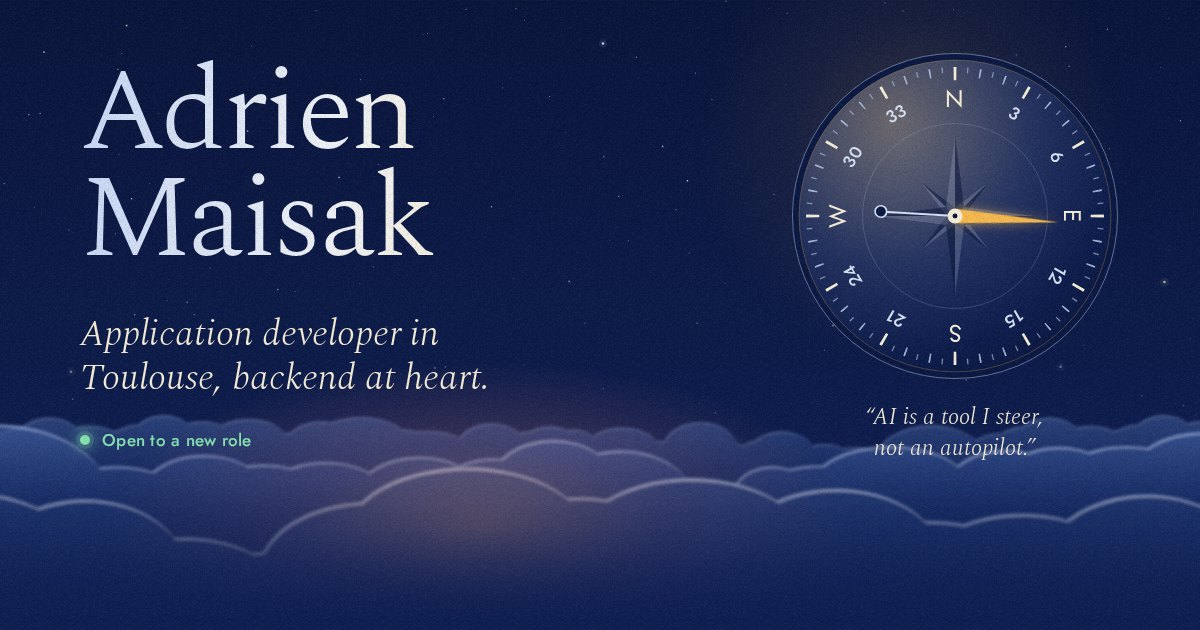
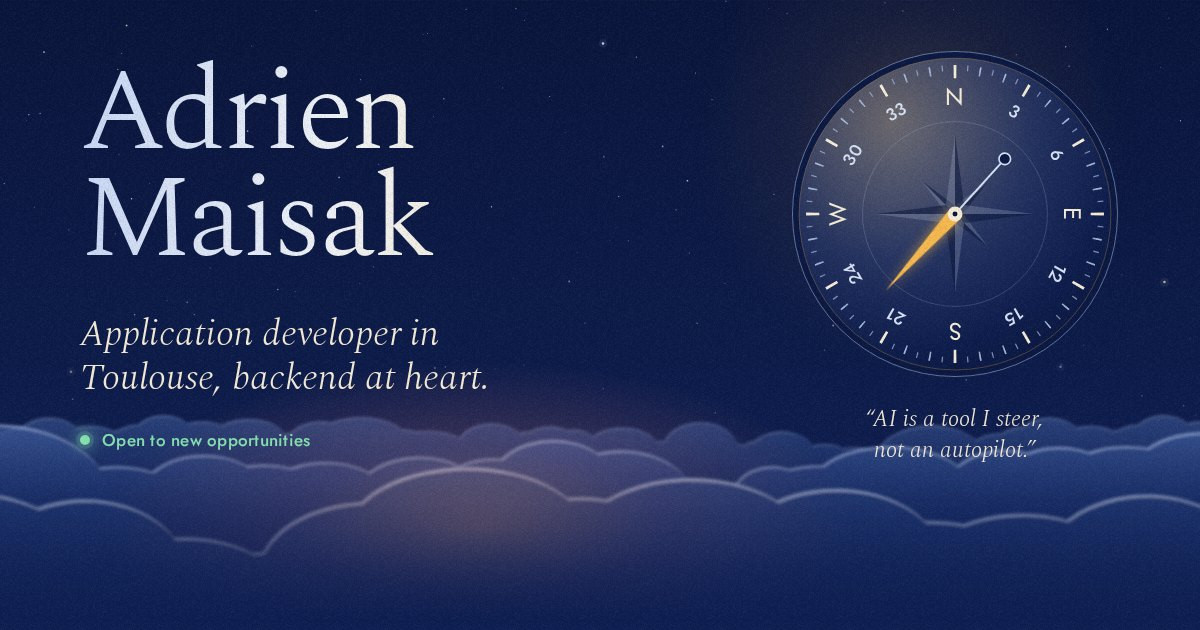
content: adjust wording and drop the compass readout
- Availability reads "Open to new opportunities" / "Ouvert à de
  nouvelles opportunités", in the hero, the meta descriptions and the
  social preview images
- "CV" replaces "résumé" on the EN buttons and nav link
- The training stage becomes "Retraining" / "Reconversion"; shorter
  intros for the route and the training projects
- Remove the heading / next-waypoint line under the compass, with its
  styles and the script that fed it; the quote stands alone
- Remove the typeface colophon from the footer

diff --git a/index.html b/index.html
@@ -5,7 +5,7 @@
   <meta charset="UTF-8">
   <meta name="viewport" content="width=device-width, initial-scale=1">
   <title>Adrien Maisak, application developer in Toulouse</title>
-  <meta name="description" content="Adrien Maisak, application developer in Toulouse, backend at heart. Open to a new role within an experienced team.">
+  <meta name="description" content="Adrien Maisak, application developer in Toulouse, backend at heart. Open to new opportunities.">
   <meta name="keywords" content="application developer, backend, Python, FastAPI, TypeScript, Node.js, Fastify, PostgreSQL, Redis, Next.js, React, AI coding agents, Toulouse">
   <meta name="author" content="Adrien Maisak">
   <meta name="theme-color" content="#0a153b">
@@ -18,7 +18,7 @@
   <meta property="og:url" content="https://dayrisea.github.io/">
   <meta property="og:locale" content="en_US">
   <meta property="og:title" content="Adrien Maisak, application developer in Toulouse">
-  <meta property="og:description" content="Adrien Maisak, application developer in Toulouse, backend at heart. Open to a new role within an experienced team.">
+  <meta property="og:description" content="Adrien Maisak, application developer in Toulouse, backend at heart. Open to new opportunities.">
   <meta property="og:image" content="https://dayrisea.github.io/assets/images/og-en.jpg">
   <meta property="og:image:width" content="1200">
   <meta property="og:image:height" content="630">
@@ -53,7 +53,7 @@
       <a href="#background" class="bar__opt bar__opt--wide">Background</a>
       <a href="#projects">Projects</a>
       <a href="#contact">Contact</a>
-      <a href="assets/cv/CV_AMK_EN.pdf">Résumé</a>
+      <a href="assets/cv/CV_AMK_EN.pdf">CV</a>
     </nav>
     <div class="lang" role="group" aria-label="Language">
       <a href="./" hreflang="en" lang="en" aria-current="page">EN<span class="vh">, English</span></a>
@@ -77,12 +77,12 @@
         <div class="hero__text">
           <h1>Adrien <span>Maisak</span></h1>
           <p class="hero__role">Application developer in Toulouse, backend&nbsp;at&nbsp;heart.</p>
-          <p class="status">Open to a new role</p>
+          <p class="status">Open to new opportunities</p>
           <p class="hero__pitch">A year of full-stack freelancing, after seven years in product data and IT. I work hand in hand with AI coding agents, and I keep the&nbsp;controls.</p>
           <div class="actions">
             <a class="btn btn--lamp" href="assets/cv/CV_AMK_EN.pdf" download>
               <svg viewBox="0 0 16 16" aria-hidden="true" focusable="false"><path d="M8 1.5v8.2M4.4 6.6 8 10.2l3.6-3.6M2.5 13.5h11"/></svg>
-              Download my résumé
+              Download my CV
             </a>
             <a class="btn btn--line" href="#projects">See the projects</a>
             <a class="link" href="mailto:adrien.maisak@gmail.com">Email me</a>
@@ -152,16 +152,12 @@
             <circle cx="200" cy="200" r="3" class="dial__pin"/>
           </svg>
           <figcaption class="placard">
-            <p class="placard__read" aria-hidden="true">
-              <span>Heading <b data-heading>205°</b></span>
-              <span>Next waypoint <b data-next>Product data</b></span>
-            </p>
             <p class="placard__quote">“AI is a tool I steer, not an&nbsp;autopilot.”</p>
           </figcaption>
         </figure>
       </div>
 
-      <p class="origin"><i class="wp wp--ring" data-pt data-name="Toulouse"></i>Toulouse <span>43°36′N 1°26′E</span></p>
+      <p class="origin"><i class="wp wp--ring" data-pt></i>Toulouse <span>43°36′N 1°26′E</span></p>
     </section>
 
     <svg class="route" aria-hidden="true" focusable="false">
@@ -176,23 +172,23 @@
       <section class="leg wrap" id="background">
         <header class="leg__head leg__head--offset">
           <h2>The route so far</h2>
-          <p>Three legs flown, the next one still to be&nbsp;plotted.</p>
+          <p>The next chapter is yet to be&nbsp;written.</p>
         </header>
         <ol class="stops">
           <li class="stop">
-            <i class="wp wp--tri" data-pt data-name="Product data"></i>
+            <i class="wp wp--tri" data-pt></i>
             <h3>Product data and IT</h3>
             <p class="stop__when">seven years</p>
             <p>CMDB administrator, then PIM/DAM manager: seven years collecting, cleaning up and distributing data. It taught me to care about clean data, and about tools that actually work for the people using them.</p>
           </li>
           <li class="stop">
-            <i class="wp wp--tri" data-pt data-name="Training"></i>
-            <h3>Training</h3>
+            <i class="wp wp--tri" data-pt></i>
+            <h3>Retraining</h3>
             <p class="stop__when">2023 to 2024</p>
-            <p>The Python application developer program at OpenClassrooms (RNCP level&nbsp;6): APIs, testing, security, CI/CD, learned one project at a time. Four of them are listed further&nbsp;down.</p>
+            <p>The Python application developer program at OpenClassrooms (RNCP level&nbsp;6): APIs, testing, security, CI/CD, learned one project at a&nbsp;time.</p>
           </li>
           <li class="stop">
-            <i class="wp wp--tri" data-pt data-name="Freelance"></i>
+            <i class="wp wp--tri" data-pt></i>
             <i class="turn turn--east" data-pt="turn"></i>
             <h3>Freelance</h3>
             <p class="stop__when">since 2025</p>
@@ -228,7 +224,7 @@
 
         <article class="project project--lead">
           <i class="turn turn--lane" data-pt="turn"></i>
-          <i class="wp wp--ring" data-pt data-name="Checkout Surge"></i>
+          <i class="wp wp--ring" data-pt></i>
           <div class="project__body">
             <p class="kind">Personal project, live demo</p>
             <h3>Checkout Surge</h3>
@@ -261,7 +257,7 @@
         </article>
 
         <article class="project">
-          <i class="wp wp--ring" data-pt data-name="AI Social Media Coach"></i>
+          <i class="wp wp--ring" data-pt></i>
           <div class="project__body">
             <p class="kind">Freelance project</p>
             <h3>AI Social Media Coach</h3>
@@ -292,10 +288,10 @@
         </article>
 
         <article class="project project--log">
-          <i class="wp wp--ring" data-pt data-name="Training projects"></i>
+          <i class="wp wp--ring" data-pt></i>
           <div class="project__body">
-            <h3>Training projects</h3>
-            <p>The logbook’s earlier pages: four projects from the OpenClassrooms program, most recent first.</p>
+            <h3>Retraining projects</h3>
+            <p>The last four projects from the OpenClassrooms program, most recent first:</p>
           </div>
           <table class="log" role="table">
             <thead role="rowgroup">
@@ -348,14 +344,14 @@
       <section class="arrival" id="contact">
         <div class="wrap arrival__in">
           <i class="turn turn--final" data-pt></i>
-          <i class="wp wp--dest" data-pt="dest" data-name="Your team?"></i>
+          <i class="wp wp--dest" data-pt="dest"></i>
           <h2>Next stop: your&nbsp;team?</h2>
           <p>I’m looking for a role within an experienced team, where I can keep growing. The easiest way to reach me is by&nbsp;email.</p>
           <a class="arrival__mail" href="mailto:adrien.maisak@gmail.com">adrien.maisak@gmail.com</a>
           <div class="actions">
             <a class="btn btn--lamp" href="assets/cv/CV_AMK_EN.pdf" download>
               <svg viewBox="0 0 16 16" aria-hidden="true" focusable="false"><path d="M8 1.5v8.2M4.4 6.6 8 10.2l3.6-3.6M2.5 13.5h11"/></svg>
-              Download my résumé
+              Download my CV
             </a>
             <a class="btn btn--line" href="https://github.com/DayriseA" rel="me noopener">
               <svg class="fill" viewBox="0 0 16 16" aria-hidden="true" focusable="false"><path d="M8 .2a8 8 0 0 0-2.53 15.59c.4.07.55-.17.55-.38v-1.33c-2.23.48-2.7-1.07-2.7-1.07-.36-.93-.89-1.17-.89-1.17-.73-.5.05-.49.05-.49.8.06 1.23.83 1.23.83.72 1.22 1.88.87 2.33.66.07-.52.28-.87.5-1.07-1.77-.2-3.64-.89-3.64-3.95 0-.87.31-1.59.82-2.15-.08-.2-.36-1.02.08-2.12 0 0 .67-.21 2.2.82a7.6 7.6 0 0 1 4 0c1.53-1.04 2.2-.82 2.2-.82.44 1.1.16 1.92.08 2.12.51.56.82 1.28.82 2.15 0 3.07-1.87 3.75-3.65 3.95.29.25.54.73.54 1.48v2.19c0 .21.15.46.55.38A8 8 0 0 0 8 .2z"/></svg>
@@ -374,7 +370,7 @@
 
   <footer class="foot">
     <div class="wrap foot__in">
-      <p>© 2026 Adrien Maisak. Set in Spectral and Jost.</p>
+      <p>© 2026 Adrien Maisak</p>
       <a class="link" href="#top">Back to the start</a>
     </div>
   </footer>

diff --git a/fr/index.html b/fr/index.html
@@ -5,7 +5,7 @@
   <meta charset="UTF-8">
   <meta name="viewport" content="width=device-width, initial-scale=1">
   <title>Adrien Maisak, développeur d’application à Toulouse</title>
-  <meta name="description" content="Adrien Maisak, développeur d’application à Toulouse, backend dans l’âme. Disponible pour un nouveau poste au sein d’une équipe expérimentée.">
+  <meta name="description" content="Adrien Maisak, développeur d’application à Toulouse, backend dans l’âme. Ouvert à de nouvelles opportunités.">
   <meta name="keywords" content="développeur d’application, backend, Python, FastAPI, TypeScript, Node.js, Fastify, PostgreSQL, Redis, Next.js, React, agents de code IA, Toulouse">
   <meta name="author" content="Adrien Maisak">
   <meta name="theme-color" content="#0a153b">
@@ -18,7 +18,7 @@
   <meta property="og:url" content="https://dayrisea.github.io/fr/">
   <meta property="og:locale" content="fr_FR">
   <meta property="og:title" content="Adrien Maisak, développeur d’application à Toulouse">
-  <meta property="og:description" content="Adrien Maisak, développeur d’application à Toulouse, backend dans l’âme. Disponible pour un nouveau poste au sein d’une équipe expérimentée.">
+  <meta property="og:description" content="Adrien Maisak, développeur d’application à Toulouse, backend dans l’âme. Ouvert à de nouvelles opportunités.">
   <meta property="og:image" content="https://dayrisea.github.io/assets/images/og-fr.jpg">
   <meta property="og:image:width" content="1200">
   <meta property="og:image:height" content="630">
@@ -77,8 +77,8 @@
         <div class="hero__text">
           <h1>Adrien <span>Maisak</span></h1>
           <p class="hero__role">Développeur d’application à Toulouse, backend&nbsp;dans&nbsp;l’âme.</p>
-          <p class="status">Disponible pour un nouveau poste</p>
-          <p class="hero__pitch">Un an de freelance en full-stack, après sept ans dans la donnée produit et l’IT. Je travaille main dans la main avec des agents de code IA, sans jamais lâcher les&nbsp;commandes.</p>
+          <p class="status">Ouvert à de nouvelles opportunités</p>
+          <p class="hero__pitch">Un an de freelance en full-stack, après sept ans dans la donnée produit et l’IT. Je travaille main dans la main avec des agents de code IA, sans lâcher les&nbsp;commandes.</p>
           <div class="actions">
             <a class="btn btn--lamp" href="../assets/cv/CV_AMK_FR.pdf" download>
               <svg viewBox="0 0 16 16" aria-hidden="true" focusable="false"><path d="M8 1.5v8.2M4.4 6.6 8 10.2l3.6-3.6M2.5 13.5h11"/></svg>
@@ -152,16 +152,12 @@
             <circle cx="200" cy="200" r="3" class="dial__pin"/>
           </svg>
           <figcaption class="placard">
-            <p class="placard__read" aria-hidden="true">
-              <span>Cap <b data-heading>205°</b></span>
-              <span>Prochain point <b data-next>Donnée produit</b></span>
-            </p>
             <p class="placard__quote">«&nbsp;L’IA est un outil que je pilote, pas un pilote&nbsp;automatique.&nbsp;»</p>
           </figcaption>
         </figure>
       </div>
 
-      <p class="origin"><i class="wp wp--ring" data-pt data-name="Toulouse"></i>Toulouse <span>43°36′N 1°26′E</span></p>
+      <p class="origin"><i class="wp wp--ring" data-pt></i>Toulouse <span>43°36′N 1°26′E</span></p>
     </section>
 
     <svg class="route" aria-hidden="true" focusable="false">
@@ -176,23 +172,23 @@
       <section class="leg wrap" id="parcours">
         <header class="leg__head leg__head--offset">
           <h2>La route jusqu’ici</h2>
-          <p>Trois étapes parcourues, et la suivante reste à&nbsp;tracer.</p>
+          <p>La prochaine étape reste à&nbsp;tracer.</p>
         </header>
         <ol class="stops">
           <li class="stop">
-            <i class="wp wp--tri" data-pt data-name="Donnée produit"></i>
+            <i class="wp wp--tri" data-pt></i>
             <h3>Donnée produit et IT</h3>
             <p class="stop__when">sept ans</p>
             <p>Administrateur CMDB, puis responsable PIM/DAM&nbsp;: sept ans à collecter, fiabiliser et diffuser de la donnée. J’en garde le goût des données propres et des outils qui rendent vraiment service à ceux qui les utilisent.</p>
           </li>
           <li class="stop">
-            <i class="wp wp--tri" data-pt data-name="Formation"></i>
-            <h3>Formation</h3>
+            <i class="wp wp--tri" data-pt></i>
+            <h3>Reconversion</h3>
             <p class="stop__when">2023 à 2024</p>
-            <p>Le parcours de développeur d’application Python d’OpenClassrooms (titre RNCP de niveau&nbsp;6)&nbsp;: API, tests, sécurité, CI/CD, appris projet après projet. Quatre d’entre eux figurent plus&nbsp;bas.</p>
+            <p>Le parcours de développeur d’application Python d’OpenClassrooms (titre RNCP de niveau&nbsp;6)&nbsp;: API, tests, sécurité, CI/CD, appris projet après&nbsp;projet.</p>
           </li>
           <li class="stop">
-            <i class="wp wp--tri" data-pt data-name="Freelance"></i>
+            <i class="wp wp--tri" data-pt></i>
             <i class="turn turn--east" data-pt="turn"></i>
             <h3>Freelance</h3>
             <p class="stop__when">depuis 2025</p>
@@ -228,7 +224,7 @@
 
         <article class="project project--lead">
           <i class="turn turn--lane" data-pt="turn"></i>
-          <i class="wp wp--ring" data-pt data-name="Checkout Surge"></i>
+          <i class="wp wp--ring" data-pt></i>
           <div class="project__body">
             <p class="kind">Projet personnel, démo en ligne</p>
             <h3>Checkout Surge</h3>
@@ -261,7 +257,7 @@
         </article>
 
         <article class="project">
-          <i class="wp wp--ring" data-pt data-name="Coach IA pour réseaux&nbsp;sociaux"></i>
+          <i class="wp wp--ring" data-pt></i>
           <div class="project__body">
             <p class="kind">Mission freelance</p>
             <h3>Coach IA pour réseaux&nbsp;sociaux</h3>
@@ -292,10 +288,10 @@
         </article>
 
         <article class="project project--log">
-          <i class="wp wp--ring" data-pt data-name="Projets de formation"></i>
+          <i class="wp wp--ring" data-pt></i>
           <div class="project__body">
             <h3>Projets de formation</h3>
-            <p>Les premières pages du carnet&nbsp;: quatre projets du parcours OpenClassrooms, du plus récent au plus ancien.</p>
+            <p>Les quatre derniers projets du parcours OpenClassrooms, du plus récent au plus ancien&nbsp;:</p>
           </div>
           <table class="log" role="table">
             <thead role="rowgroup">
@@ -348,7 +344,7 @@
       <section class="arrival" id="contact">
         <div class="wrap arrival__in">
           <i class="turn turn--final" data-pt></i>
-          <i class="wp wp--dest" data-pt="dest" data-name="Votre équipe&nbsp;?"></i>
+          <i class="wp wp--dest" data-pt="dest"></i>
           <h2>Prochaine escale&nbsp;: votre&nbsp;équipe&nbsp;?</h2>
           <p>Je cherche un poste au sein d’une équipe expérimentée, où continuer à progresser. Le plus simple pour me joindre reste l’e&#8209;mail.</p>
           <a class="arrival__mail" href="mailto:adrien.maisak@gmail.com">adrien.maisak@gmail.com</a>
@@ -374,7 +370,7 @@
 
   <footer class="foot">
     <div class="wrap foot__in">
-      <p>© 2026 Adrien Maisak. Composé en Spectral et Jost.</p>
+      <p>© 2026 Adrien Maisak</p>
       <a class="link" href="#top">Retour au départ</a>
     </div>
   </footer>

diff --git a/index.js b/index.js
@@ -18,15 +18,13 @@
     return { el, cx: box.width / 2, cy: box.height / 2 };
   });
   const dial = document.querySelector('.dial');
-  const headingOut = document.querySelector('[data-heading]');
-  const nextOut = document.querySelector('[data-next]');
   const still = window.matchMedia('(prefers-reduced-motion: reduce)');
 
   const STEP = 5; // px between samples along the route
   const TURN = 30; // radius of a rounded turn
 
   let samples = []; // [{ x, y }] every STEP px of the flyable route
-  let named = []; // waypoints with a name: { el, s, name }
+  let marks = []; // visible waypoints: { el, s }
   let total = 0;
   let mainTop = 0;
 
@@ -35,8 +33,6 @@
   let angle = 135; // needle, degrees
   let speed = 0;
   let bearing = 205; // heading of the leg under the craft
-  let shownHeading = '';
-  let shownNext = '';
   let dialVisible = true;
   let drawn = -1; // distance last painted
   let frame = 0;
@@ -59,7 +55,6 @@
           x: r.left - box.left + r.width / 2,
           y: r.top - box.top + r.height / 2,
           kind: el.dataset.pt,
-          name: el.dataset.name,
         };
       });
     if (pts.length < 3) return;
@@ -95,10 +90,9 @@
     for (let l = 0; l <= total; l += STEP) samples.push(flown.getPointAtLength(l));
     samples.push(flown.getPointAtLength(total));
 
-    named = pts
-      .filter((p) => p.name)
-      .map((p) => ({ el: p.el, name: p.name, s: distanceAtY(p.y) }));
-    if (dest) named.push({ el: dest.el, name: dest.name, s: Infinity });
+    marks = pts
+      .filter((p) => p.el.classList.contains('wp'))
+      .map((p) => ({ el: p.el, s: distanceAtY(p.y) }));
 
     ready = true;
     drawn = -1;
@@ -156,21 +150,10 @@
 
     if (p.dx || p.dy) bearing = (Math.atan2(p.dx, -p.dy) * 180) / Math.PI;
 
-    let next = named[named.length - 1];
-    for (const w of named) {
+    for (const w of marks) {
       const passed = w.s <= s + 2;
       if (w.el.classList.contains('is-passed') !== passed) w.el.classList.toggle('is-passed', passed);
     }
-    for (const w of named) {
-      if (w.s > s + 2) {
-        next = w;
-        break;
-      }
-    }
-
-    const heading = `${String(Math.round((bearing + 360) % 360) % 360).padStart(3, '0')}°`;
-    if (headingOut && heading !== shownHeading) headingOut.textContent = shownHeading = heading;
-    if (nextOut && next && next.name !== shownNext) nextOut.textContent = shownNext = next.name;
   }
 
   function turnNeedles() {

diff --git a/index.css b/index.css
@@ -800,38 +800,12 @@ h1 span {
   fill: var(--zenith);
 }
 
-.dial__glass {
-  fill: none;
-  stroke: rgba(255, 255, 255, .16);
-  stroke-width: 5;
-  stroke-linecap: round;
-}
-
 .placard {
-  margin-top: 22px;
+  margin-top: 26px;
   text-align: center;
 }
 
-.placard__read {
-  display: flex;
-  justify-content: center;
-  flex-wrap: wrap;
-  gap: 4px 28px;
-  font: 400 .9375rem/1.3 var(--sans);
-  letter-spacing: .02em;
-  color: var(--moon-dim);
-}
-
-.placard__read b {
-  font-weight: 500;
-  font-variant-numeric: tabular-nums;
-  color: var(--lamp-soft);
-}
-
 .placard__quote {
-  margin-top: 14px;
-  padding-top: 16px;
-  border-top: 1px solid var(--rule);
   font-style: italic;
   font-weight: 300;
   font-size: clamp(1.1875rem, 1rem + .6vw, 1.4375rem);
@@ -1533,7 +1507,6 @@ h1 span {
   .sky,
   .route,
   .instrument .dial,
-  .placard__read,
   body::after {
     display: none;
   }
